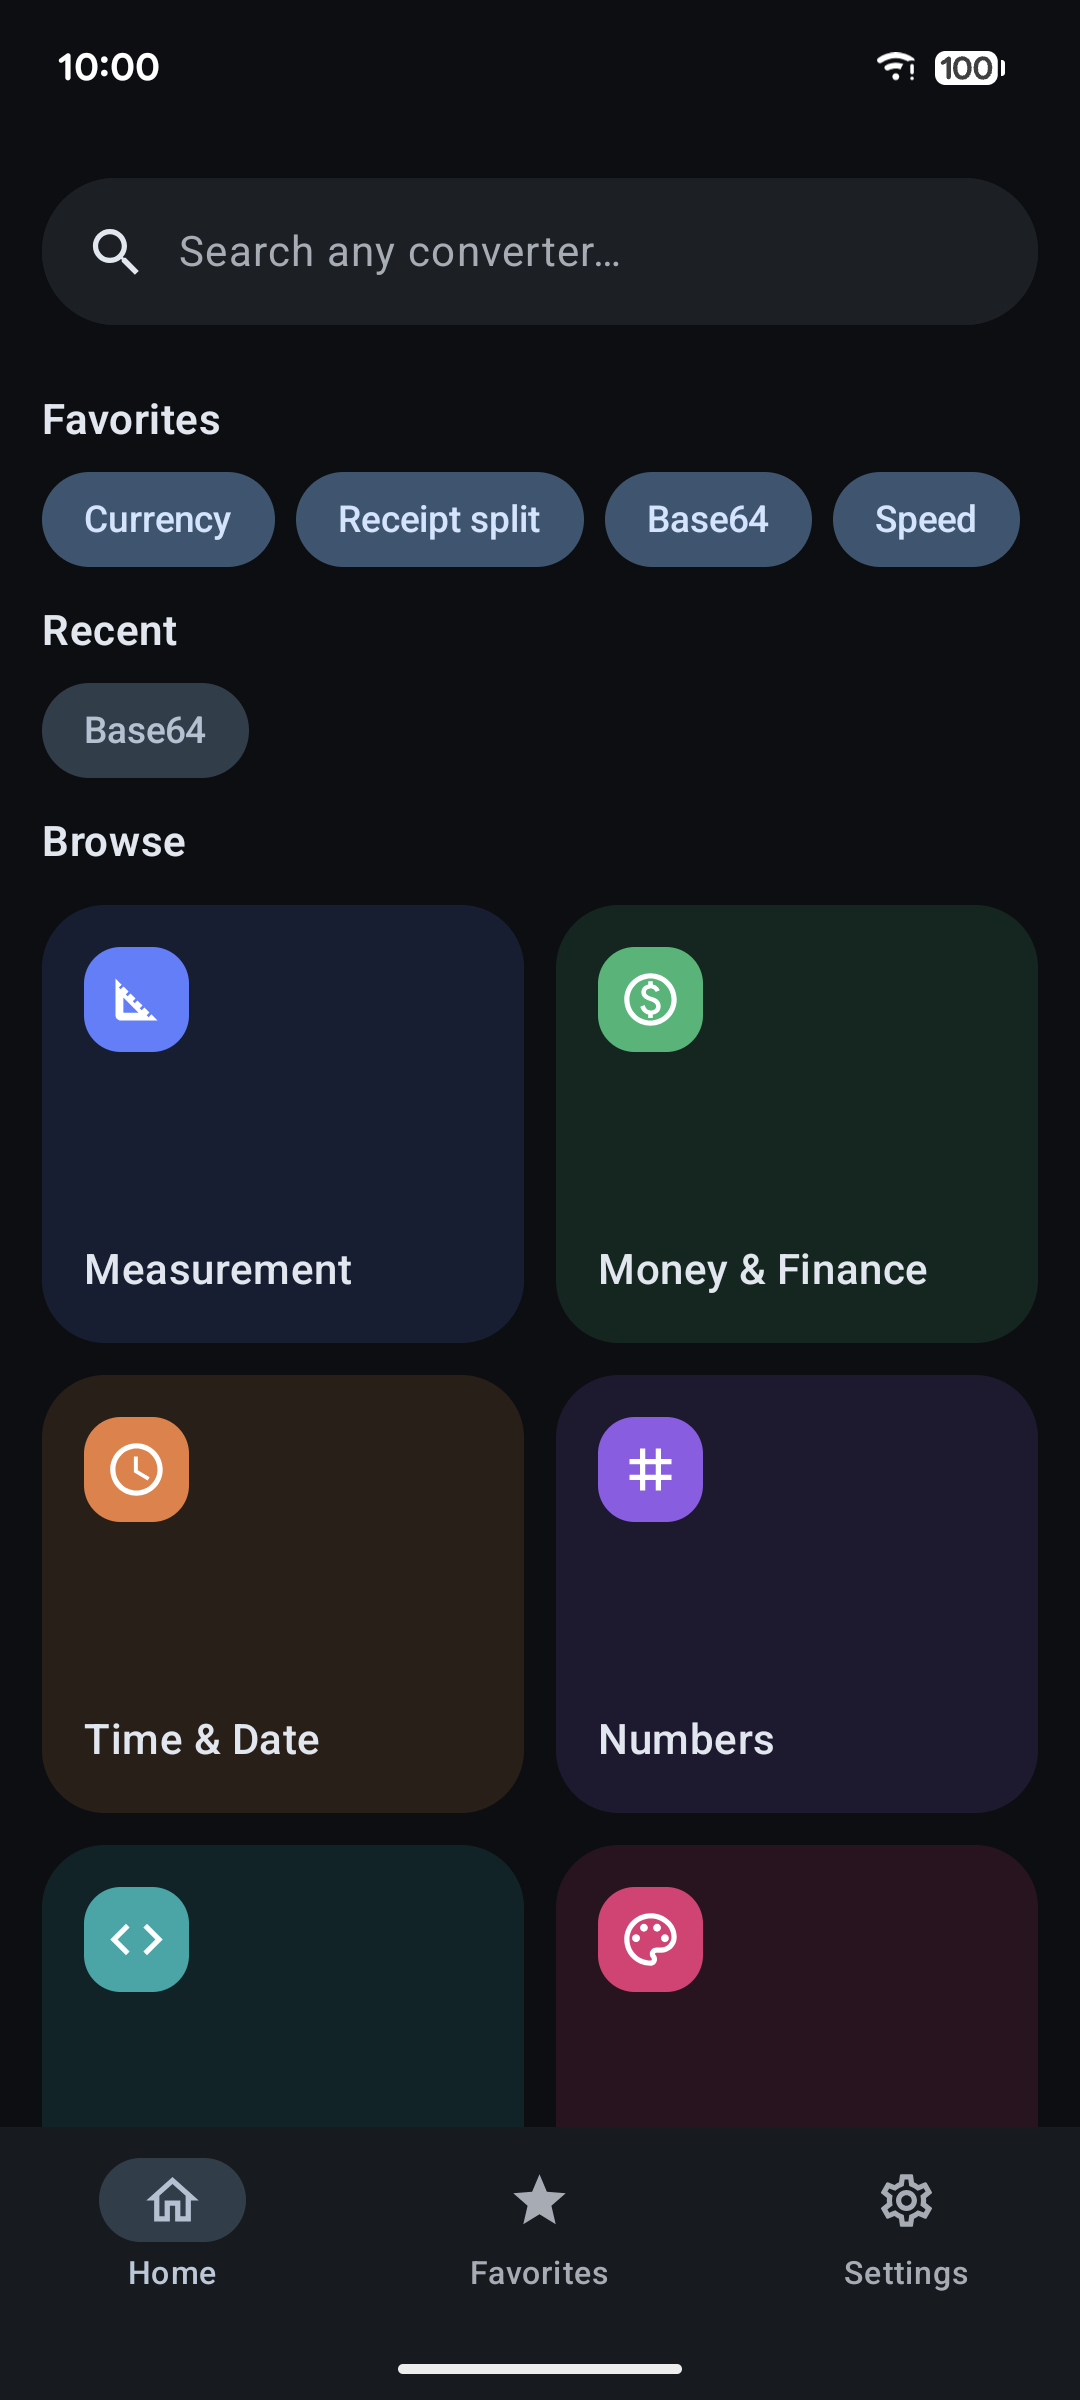
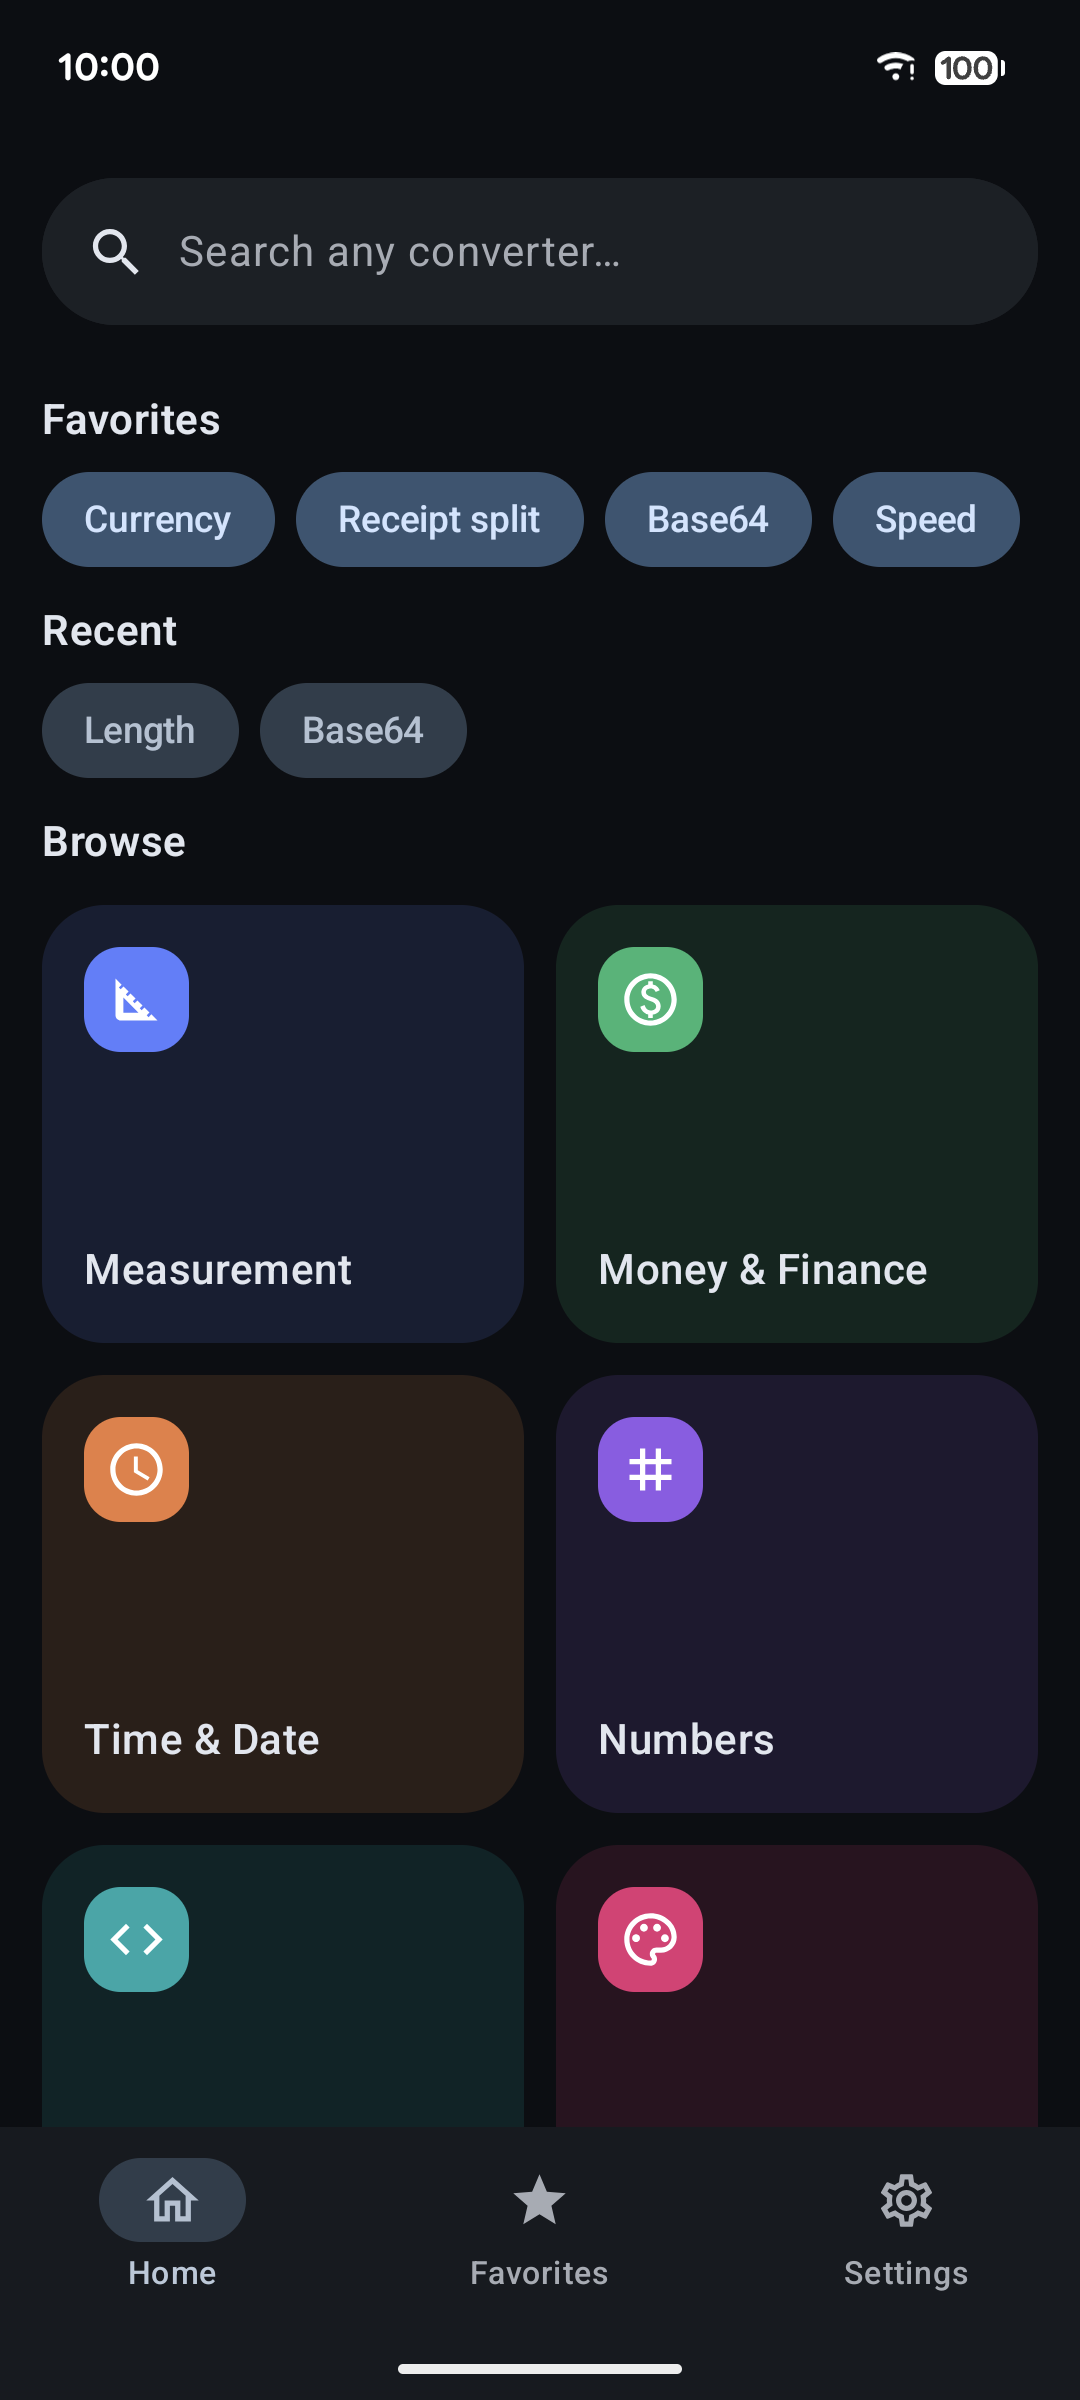
Fix screenshots and imports

Changed region(s): [[0.0917, 0.2812, 0.4278, 0.3438]]

diff --git a/app/src/main/kotlin/eu/slickbot/conver/domain/converter/Unit.kt b/app/src/main/kotlin/eu/slickbot/conver/domain/converter/Unit.kt
@@ -1,7 +1,5 @@
 package eu.slickbot.conver.domain.converter
 
-import eu.slickbot.conver.domain.converter.MeasureUnit.Companion.linear
-
 data class MeasureUnit(
   val id: String,
   val name: String,

diff --git a/app/src/main/kotlin/eu/slickbot/conver/domain/converter/converters/EverydayCatalog.kt b/app/src/main/kotlin/eu/slickbot/conver/domain/converter/converters/EverydayCatalog.kt
@@ -1,9 +1,9 @@
 package eu.slickbot.conver.domain.converter.converters
 
 import androidx.compose.material.icons.Icons
+import androidx.compose.material.icons.automirrored.outlined.DirectionsRun
 import androidx.compose.material.icons.outlined.Boy
 import androidx.compose.material.icons.outlined.Description
-import androidx.compose.material.icons.automirrored.outlined.DirectionsRun
 import androidx.compose.material.icons.outlined.FitnessCenter
 import androidx.compose.material.icons.outlined.LocalFireDepartment
 import androidx.compose.material.icons.outlined.Public